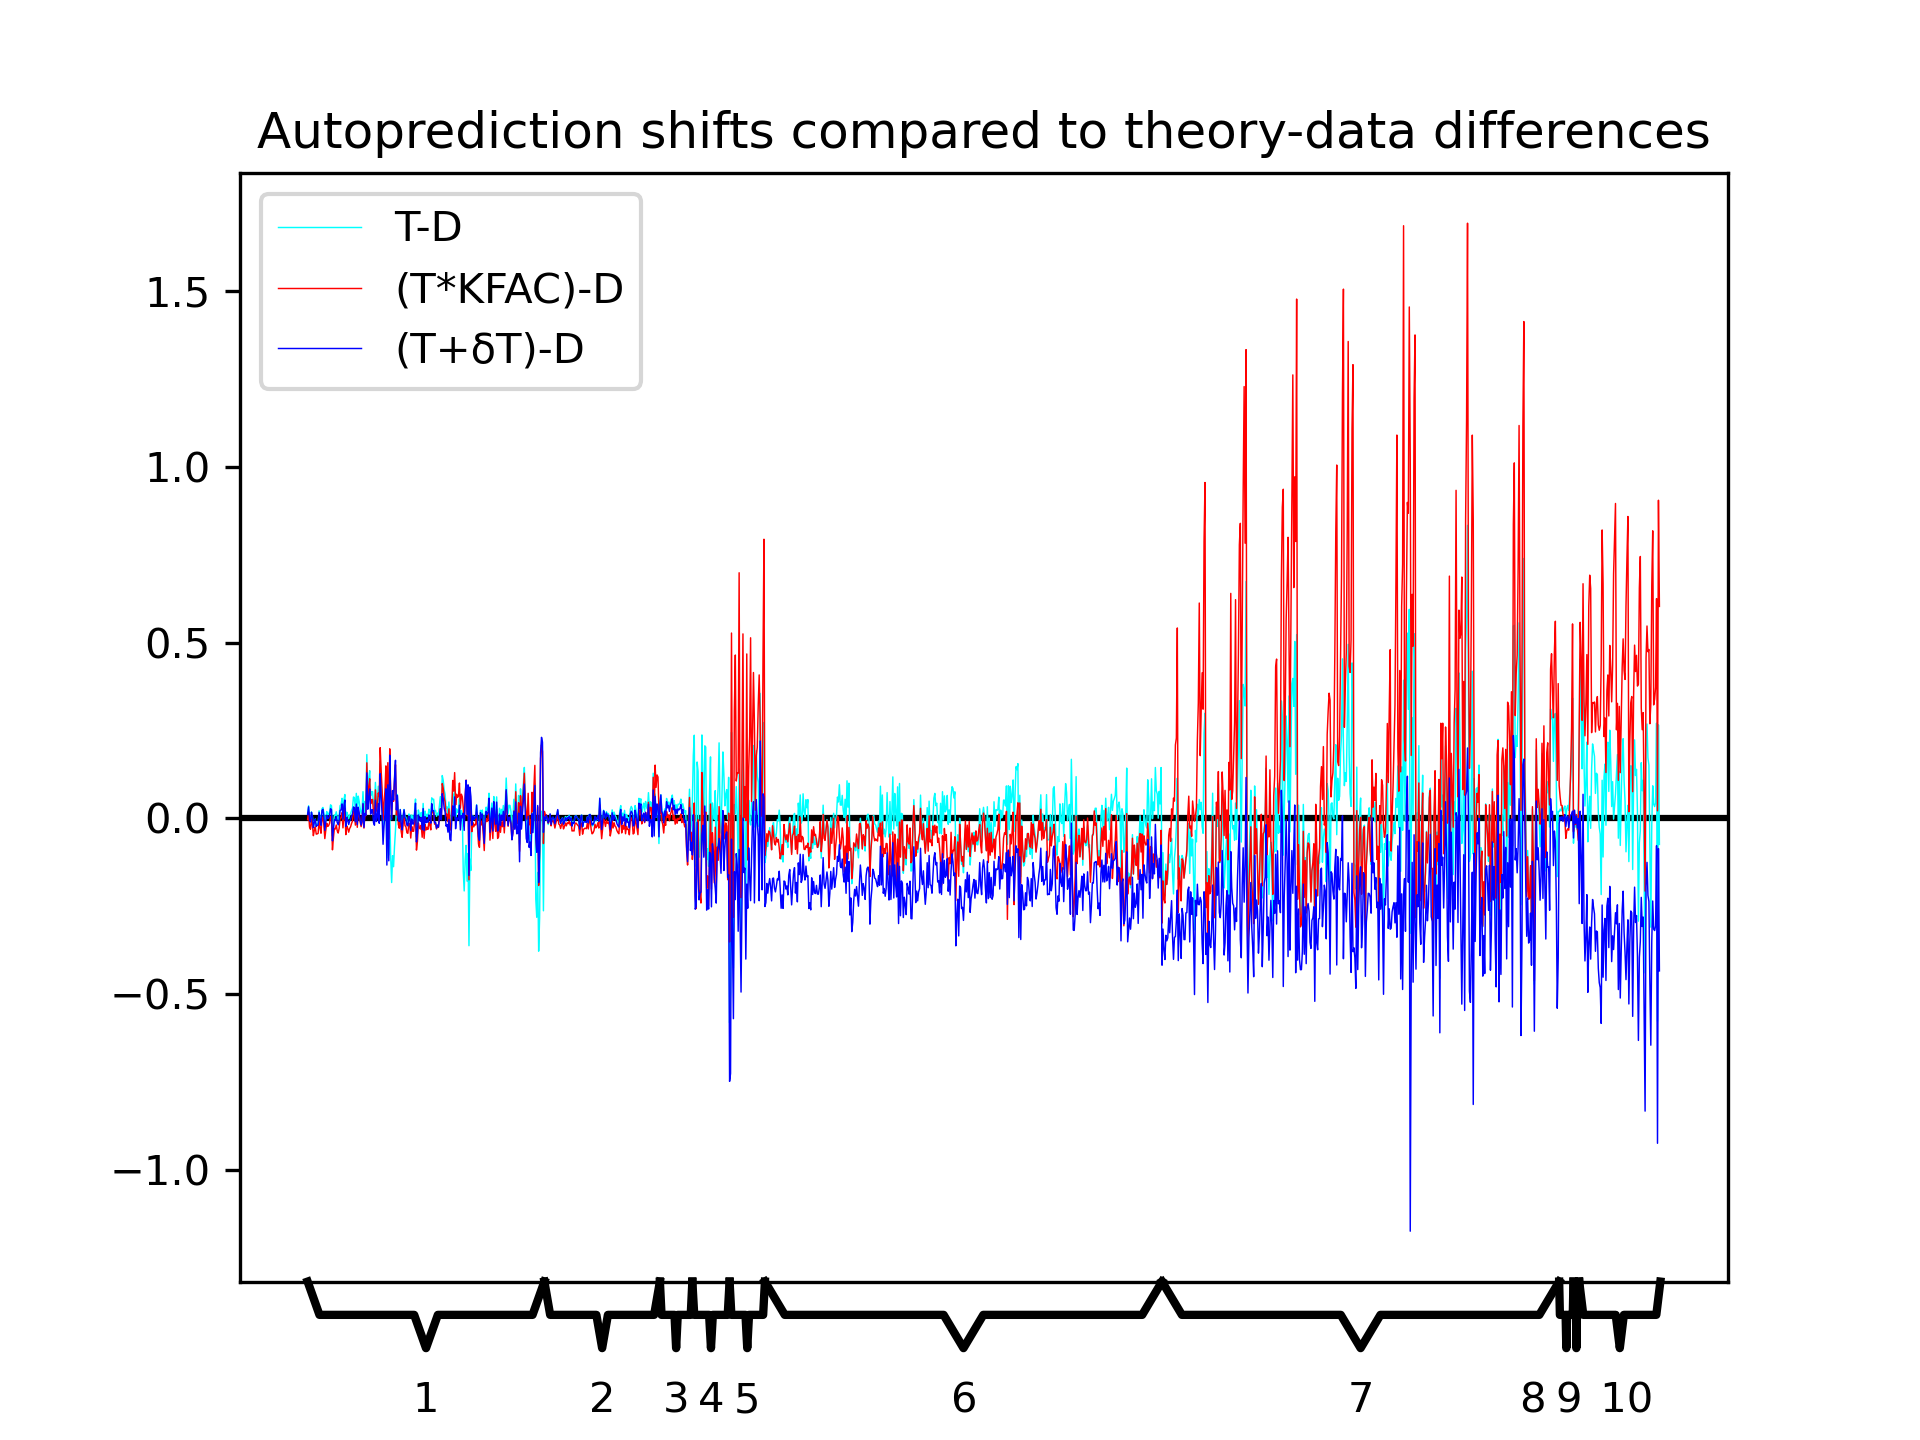
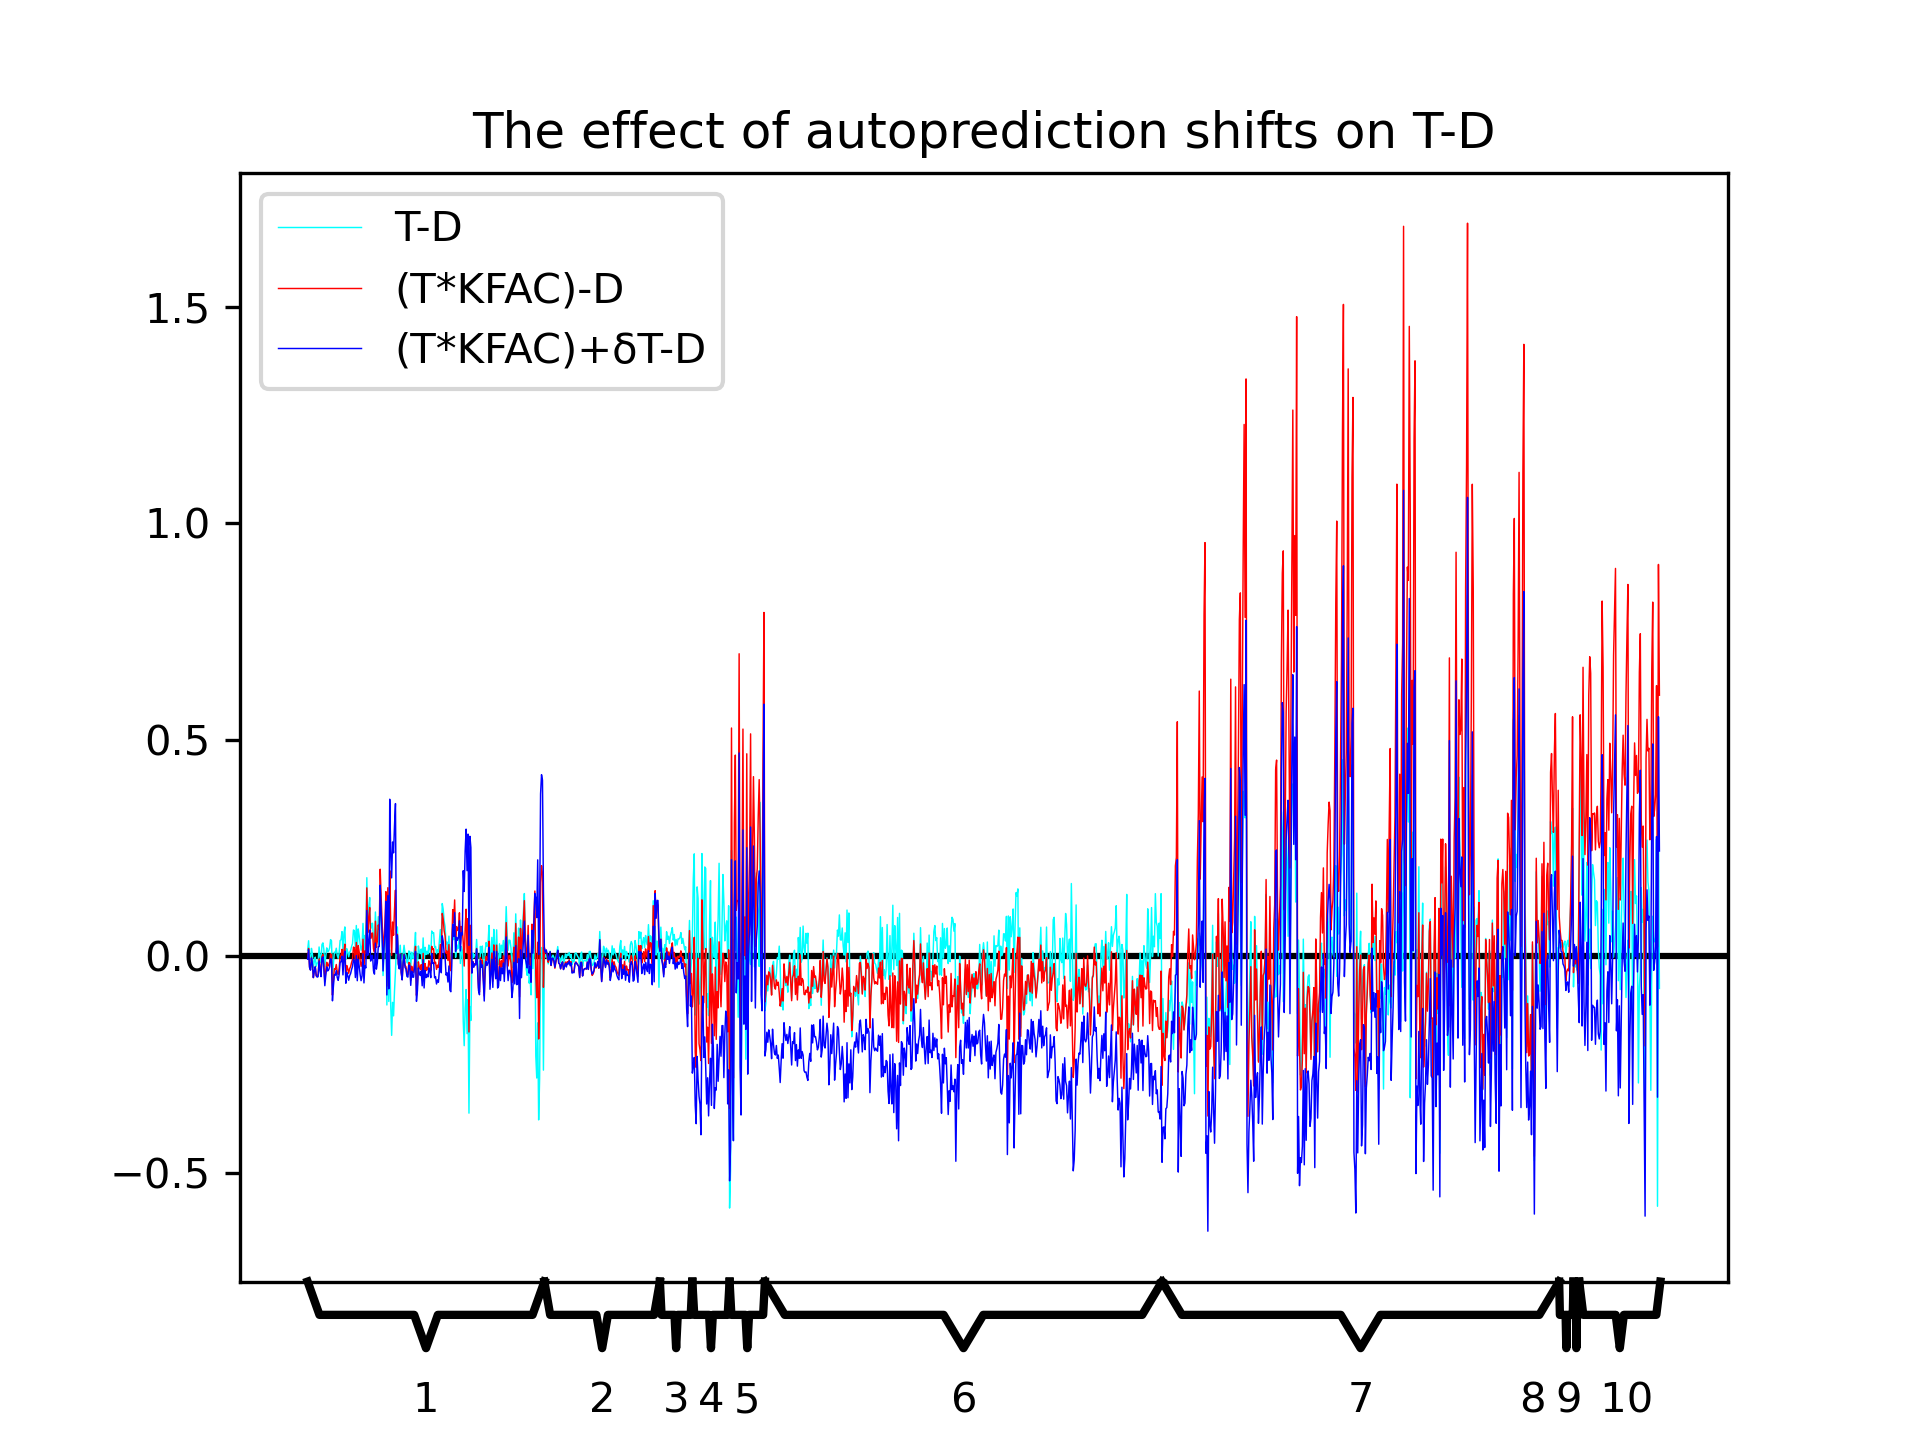
small changes

diff --git a/output.py b/output.py
@@ -232,7 +232,7 @@ plt.clf()
 #region autoprediction shifts
 AUTO_norm = np.zeros_like(T-D+AUTO)
 for i in range(len(T-D+AUTO)):
-    AUTO_norm[i] = (T-D+AUTO)[i] / T[i]
+    AUTO_norm[i] = (T_KFAC-D+AUTO)[i] / T[i]
 TD_norm = np.zeros_like(T-D)
 for i in range(len(TD_norm)):
     TD_norm[i] = (T-D)[i] / T[i]
@@ -244,8 +244,8 @@ x = np.arange(len(T-D+AUTO))
 #plt.ylim(-1.4,1.4)
 plt.plot(x, TD_norm, c='cyan', label='T-D', linewidth=0.35, zorder=2)
 plt.plot(x, TK_norm, c='r', label='(T*KFAC)-D', linewidth=0.35, zorder=2)
-plt.plot(x, AUTO_norm, c='b', label='(T+δT)-D', linewidth=0.35, zorder=2)
-plt.title("Autoprediction shifts compared to theory-data differences")
+plt.plot(x, AUTO_norm, c='b', label='(T*KFAC)+δT-D', linewidth=0.35, zorder=2)
+plt.title("The effect of autoprediction shifts on T-D")
 show_dataset_brackets(plt.gca())
 plt.axhline(y=0, color='k', linestyle='-', zorder=1)
 plt.gca().axes.xaxis.set_visible(False)
@@ -358,7 +358,6 @@ plt.savefig("figures/" + root + "/X_contributions", dpi=300)
 plt.clf()
 #endregion
 
-
 #region chi2
 
 if (root == "nuclear"):
@@ -423,3 +422,24 @@ plt.savefig("figures/" + root + "/chi2t0", dpi=300)
 plt.clf()
 
 #endregion
+
+AUTO_norm = np.zeros_like(AUTO)
+for i in range(len(AUTO)):
+    AUTO_norm[i] = (AUTO)[i] / T[i]
+TK_norm = np.zeros_like(T_KFAC-T)
+for i in range(len(TK_norm)):
+    TK_norm[i] = (T_KFAC - T)[i] / T[i]
+
+x = np.arange(len(T-D+AUTO))
+#plt.ylim(-1.4,1.4)
+plt.plot(x, TD_norm, c='cyan', label='T-D', linewidth=0.35, zorder=2)
+plt.plot(x, TK_norm, c='r', label='Original nuclear shifts', linewidth=0.35, zorder=2)
+plt.plot(x, AUTO_norm, c='b', label='Autopredictions', linewidth=0.35, zorder=2)
+plt.title("Autoprediction shifts compared to original nuclear shifts")
+show_dataset_brackets(plt.gca())
+plt.axhline(y=0, color='k', linestyle='-', zorder=1)
+plt.gca().axes.xaxis.set_visible(False)
+plt.legend()
+#plt.show()
+plt.savefig("figures/" + root + "/autopredictions_test", dpi=300)
+plt.clf()
